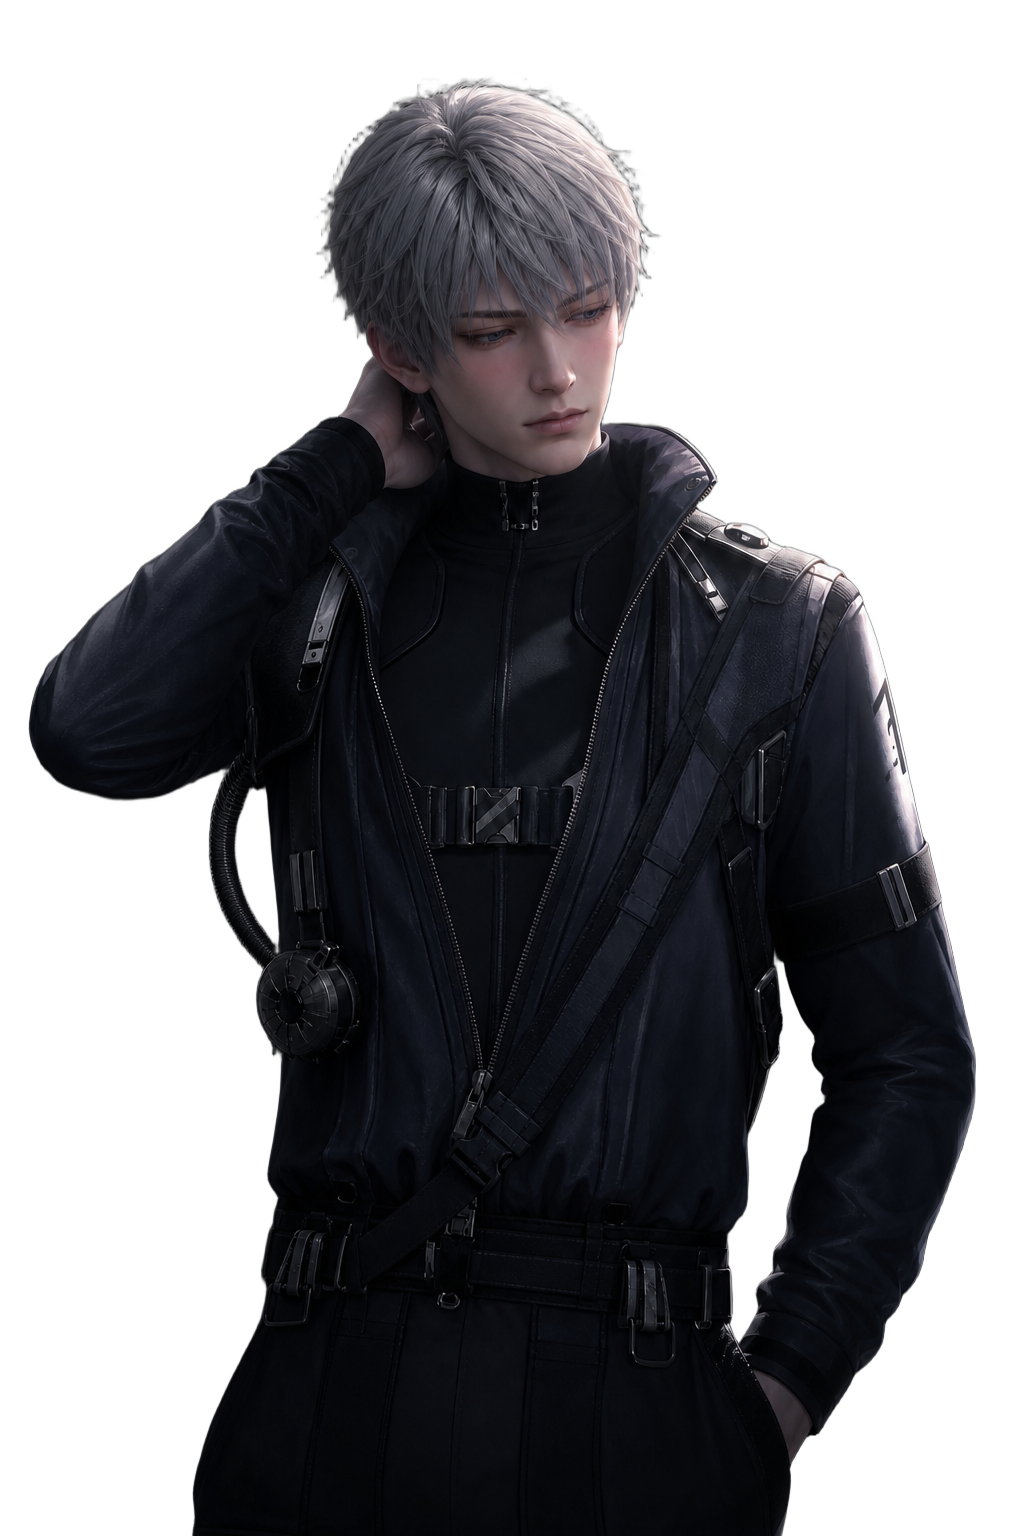
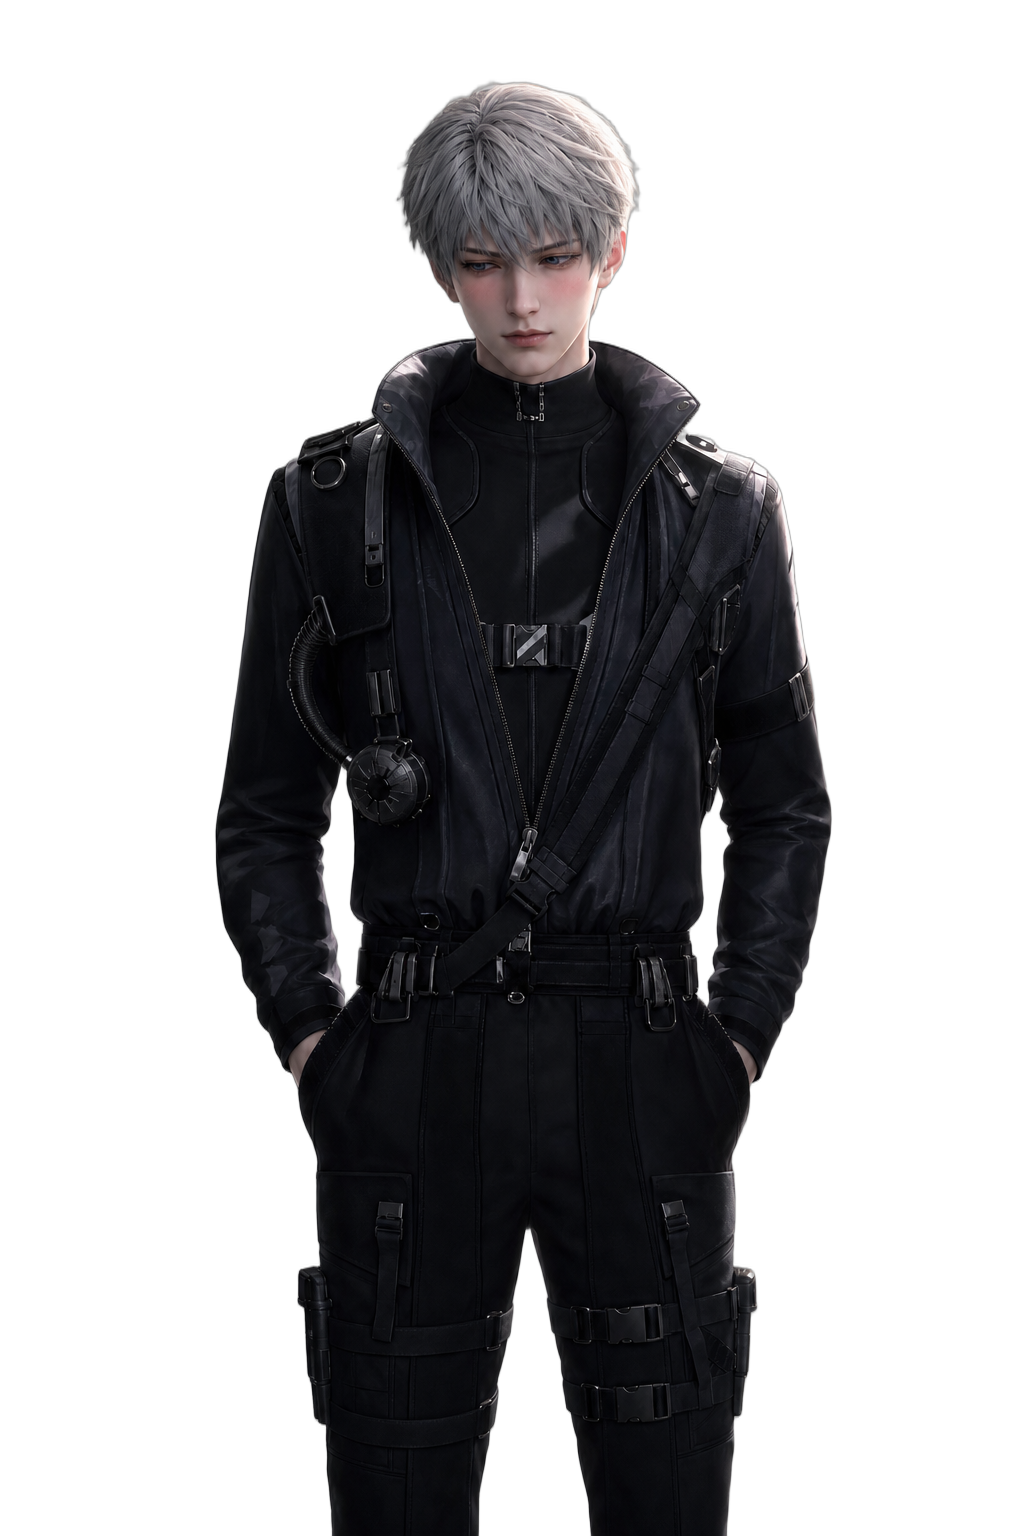
立绘重画为完整七分身，并与场景融合
- 三位男主 12 张立绘按旧版长相重画成七分身：头顶留白、双臂完整入画，不再被画框切掉
- 新立绘材质：底部与两侧柔和淡出、场景色调、轮廓光；主页加角色色柔光、星光和轻微呼吸
- 约会触碰点位按新构图重新对齐；截图脚本覆盖三位男主的主页

Claude-Session: https://claude.ai/code/session_0175uiL4LJTRi4c2Tff3JsSW

diff --git a/tools/build_manifest.py b/tools/build_manifest.py
@@ -12,9 +12,10 @@ ROOT = pathlib.Path(__file__).resolve().parent.parent
 DATA = ROOT / "data"
 
 STYLE_CHAR = (
-    "乙女向恋爱手游的男性角色立绘，竖版构图，膝上景或半身，面向镜头，"
-    "二次元偏写实的精致画风（接近《恋与深空》的质感），皮肤与发丝细节丰富，"
-    "柔和电影级光影，背景为干净的深色渐变并带少量光斑，无文字无水印"
+    "乙女向恋爱手游的男性角色立绘，竖版构图，七分身（头顶到大腿中部），面向镜头，"
+    "人物居中且只占画面宽度约 70%，头顶上方留出少量空白，双肩、双臂和双手完整入画，身体任何部位都不被画面边缘裁切，"
+    "二次元偏写实的精致画风（接近《恋与深空》的质感），皮肤与发丝细节丰富，柔和电影级光影带淡淡的轮廓光，"
+    "背景为干净的纯色浅灰背景（便于抠图），无道具遮挡，无文字无水印"
 )
 STYLE_BG = "乙女向恋爱手游场景背景图，无人物，竖版 9:16，电影感光影，精致写实的二次元场景，无文字无水印"
 STYLE_CARD = "乙女向恋爱手游「思念卡」插画，男主角与场景的情绪化构图，竖版 3:4，二次元偏写实画风，柔和电影光，无文字无水印"
@@ -122,10 +123,15 @@ def main():
                 "prompt": f"{ch['name']}：{ch['visual']}。{expr_desc}。{STYLE_CHAR}",
                 "cutout": True,  # 出图后用 tools/cutout.py 抠成透明背景
             }
-            if expr != "calm":
+            if expr == "calm":
+                # 以旧版 calm 为参考重绘成完整七分身，保持长相不变（旧图存在 assets/gen/_ref/）
+                entry["ref"] = f"_ref/{ch['id']}_calm"
+                entry["prompt"] = (f"保持参考图中同一角色的脸型、五官、发型、服装与画风完全不变，重新构图为完整的七分身立绘，务必保留参考图中的全部配饰（眼镜、耳钉、项链等）。"
+                                   f"{ch['name']}：{ch['visual']}。{expr_desc}。{STYLE_CHAR}")
+            else:
                 # 用 calm 立绘做参考图（i2i / edits），保证同一角色多表情一致
                 entry["ref"] = base_key
-                entry["prompt"] = f"保持参考图中同一角色的脸型、发型、服装与画风不变，只改变表情与姿态：{expr_desc}。{STYLE_CHAR}"
+                entry["prompt"] = f"保持参考图中同一角色的脸型、发型、服装、配饰（眼镜、耳钉、项链等）与画风不变，只改变表情与姿态：{expr_desc}。{STYLE_CHAR}"
             assets.append(entry)
 
     by_id = {c["id"]: c for c in chars}
